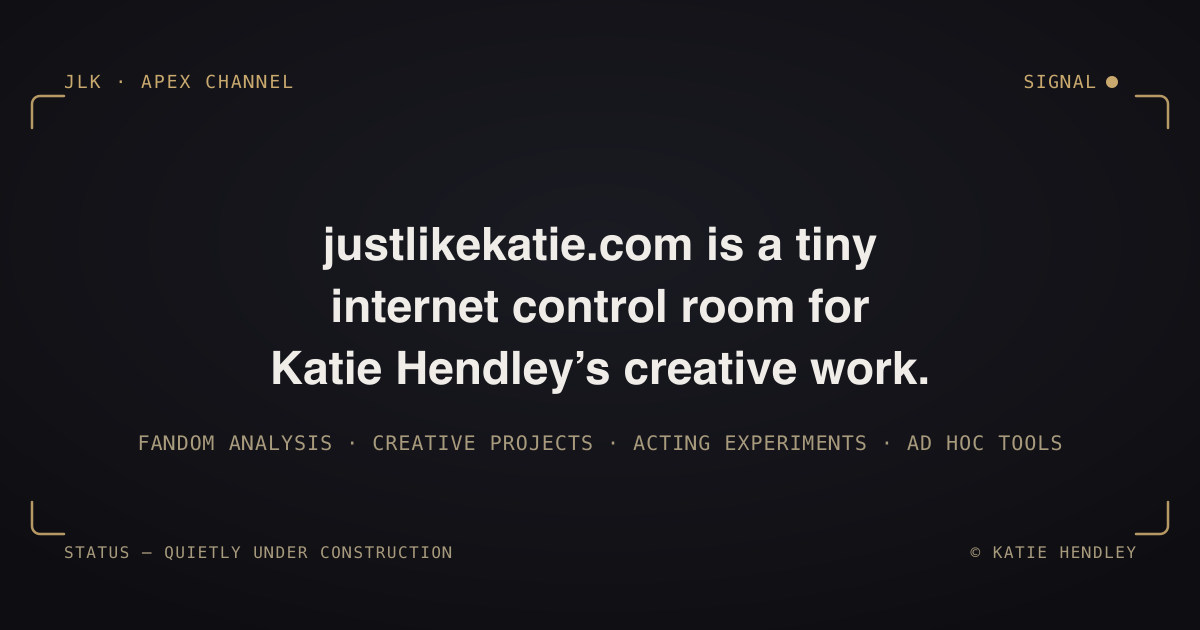
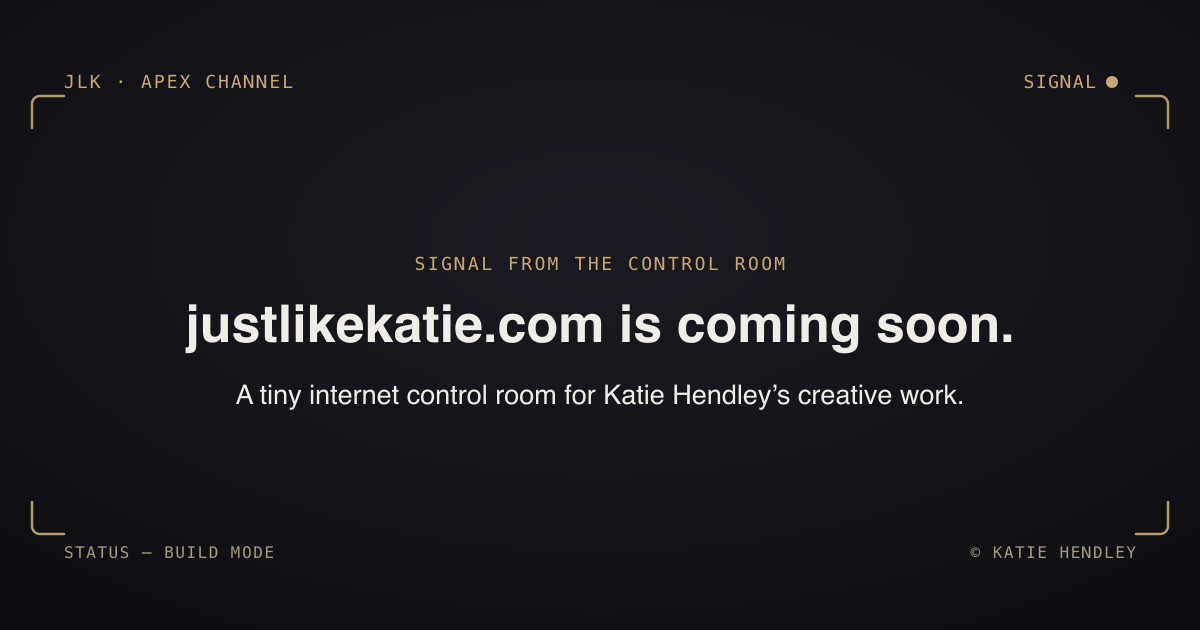
Restructure coming-soon copy to approved content contract
Supersede the original single-sentence layout with the tighter,
Notion-approved hierarchy the user supplied as authoritative:

1. Eyebrow — "Signal from the Control Room"
2. Headline — "justlikekatie.com is coming soon."
3. Lede — the required verbatim control-room sentence, restructured
   without the "justlikekatie.com is a" prefix
4. Body copy — a build-status paragraph explaining the site is
   gathering portfolio work, fandom systems, media experiments, and
   the tools behind them into one public home
5. "More soon."
6. A small, deliberately non-dominant WHOIS-marketer aside

Changes:
- Removed the four-tag 'patch panel' row (redundant with the new
  build-status paragraph; not part of the approved hierarchy).
- Renamed the bottom-left HUD status readout from "Quietly Under
  Construction" to "Build Mode" so it echoes rather than competes
  with the new body copy's own terminology.
- Updated title/meta description/OG/Twitter copy to the new
  "coming soon" framing.
- Updated the baked-in OG image graphic (was carrying old,
  paraphrased copy and the removed tag row) to match.
- Updated PRODUCT.md/DESIGN.md to record the new content contract
  and copy hierarchy as current product truth.

No product-launch framing, private tool names/links, waitlist,
dates, or backend explanation were introduced — same constraints as
the original build. Visual system (palette, HUD-corner grammar,
motion, type) is unchanged.
[…]

diff --git a/site/index.html b/site/index.html
@@ -7,25 +7,28 @@
   inherited from this family's existing palette; Inter for the editorial voice;
   JetBrains Mono strictly for live instrument readouts (channel id, signal state,
   build status) — genuine telemetry typography, not a technical costume.
-  STORY: A visitor reads the room's own signage — the exact control-room
-  sentence — notices a live signal confirming quiet, intentional activity behind
-  it, and leaves understanding this is Katie's personal system: deliberately
-  quiet, not a storefront, not for hire.
+  STORY: A visitor reads the room's own signage — a plain "coming soon," the
+  control-room description, and a one-line status update — notices a live
+  signal confirming quiet, intentional activity behind it, and leaves
+  understanding this is Katie's personal system: deliberately quiet, not a
+  storefront, not for hire, not broken.
   FIRST VIEWPORT: Full-bleed dark panel framed by thin corner brackets at all
   four screen corners (HUD chrome, not a card) holding small mono readouts —
   channel id top-left, live signal top-right, build status bottom-left, mark
-  bottom-right. The verbatim sentence sits large and centered, unlabeled, as the
-  room's own signage. A row of four patch-panel tags beneath it echoes the
-  sentence's own named practices as inert labels, never links.
-  FORM: Brief-pinned direction (editorial/control-room, Just Like Katie family)
-  executed directly per new-work.md's "a pinned direction beats the roll."
+  bottom-right. Inside the panel: a mono eyebrow, the "is coming soon" headline,
+  the verbatim control-room sentence, one status paragraph, a short "More soon,"
+  and a small closing wink about WHOIS marketers — never louder than the copy
+  above it.
+  FORM: Content contract supplied and approved by the user via Notion,
+  authoritative over the original single-sentence layout; visual system
+  (palette/type/HUD grammar) preserved from the prior committed direction.
 -->
 <html lang="en">
 <head>
   <meta charset="utf-8" />
   <meta name="viewport" content="width=device-width, initial-scale=1" />
-  <title>justlikekatie.com — the control room</title>
-  <meta name="description" content="justlikekatie.com is a tiny internet control room for Katie Hendley’s fandom analysis, creative projects, acting experiments, and ‘wait, I built a tool for that’ moments." />
+  <title>justlikekatie.com — coming soon</title>
+  <meta name="description" content="justlikekatie.com is coming soon — a tiny internet control room for Katie Hendley’s fandom analysis, creative projects, acting experiments, and “wait, I built a tool for that” moments." />
   <link rel="canonical" href="https://justlikekatie.com/" />
   <meta name="robots" content="index, follow" />
   <meta name="theme-color" content="#0e0e12" />
@@ -33,15 +36,15 @@
   <meta property="og:type" content="website" />
   <meta property="og:url" content="https://justlikekatie.com/" />
   <meta property="og:site_name" content="justlikekatie.com" />
-  <meta property="og:title" content="justlikekatie.com — the control room" />
-  <meta property="og:description" content="justlikekatie.com is a tiny internet control room for Katie Hendley’s fandom analysis, creative projects, acting experiments, and ‘wait, I built a tool for that’ moments." />
+  <meta property="og:title" content="justlikekatie.com — coming soon" />
+  <meta property="og:description" content="justlikekatie.com is coming soon — a tiny internet control room for Katie Hendley’s fandom analysis, creative projects, acting experiments, and “wait, I built a tool for that” moments." />
   <meta property="og:image" content="https://justlikekatie.com/og-image.png" />
   <meta property="og:image:width" content="1200" />
   <meta property="og:image:height" content="630" />
   <meta property="og:image:alt" content="A dark instrument panel reading the justlikekatie.com control-room description, framed by corner brackets with a live signal readout." />
   <meta name="twitter:card" content="summary_large_image" />
-  <meta name="twitter:title" content="justlikekatie.com — the control room" />
-  <meta name="twitter:description" content="justlikekatie.com is a tiny internet control room for Katie Hendley’s fandom analysis, creative projects, acting experiments, and ‘wait, I built a tool for that’ moments." />
+  <meta name="twitter:title" content="justlikekatie.com — coming soon" />
+  <meta name="twitter:description" content="justlikekatie.com is coming soon — a tiny internet control room for Katie Hendley’s fandom analysis, creative projects, acting experiments, and “wait, I built a tool for that” moments." />
   <meta name="twitter:image" content="https://justlikekatie.com/og-image.png" />
 
   <link rel="icon" href="/favicon.svg" type="image/svg+xml" />
@@ -175,43 +178,62 @@
       padding-block: clamp(3.5rem, 10vh, 5rem);
     }
 
+    .eyebrow {
+      margin: 0 0 clamp(1.1rem, 3vh, 1.5rem);
+      font-family: "JetBrains Mono", ui-monospace, "SFMono-Regular", Menlo, monospace;
+      font-size: 0.6875rem;
+      letter-spacing: 0.16em;
+      text-transform: uppercase;
+      color: var(--gold);
+    }
+
     .thesis {
       margin: 0;
       font-weight: 700;
-      font-size: clamp(1.5rem, 1.05rem + 2.1vw, 2.75rem);
-      line-height: 1.28;
+      font-size: clamp(1.6rem, 1.15rem + 2.1vw, 2.75rem);
+      line-height: 1.2;
       letter-spacing: -0.015em;
       color: var(--fg);
       text-wrap: balance;
     }
 
-    .channels {
-      list-style: none;
-      margin: clamp(2.25rem, 5vh, 3rem) 0 0;
-      padding: 0;
-      display: flex;
-      flex-wrap: wrap;
-      align-items: center;
-      justify-content: center;
-      gap: 0.6rem 0;
+    .lede {
+      margin: clamp(1.25rem, 3vh, 1.75rem) auto 0;
+      max-width: 34ch;
+      font-weight: 500;
+      font-size: clamp(1.05rem, 0.95rem + 0.5vw, 1.3125rem);
+      line-height: 1.5;
+      color: var(--fg);
+      text-wrap: balance;
     }
 
-    .channels li {
+    .body-copy {
+      margin: clamp(1.75rem, 4vh, 2.25rem) auto 0;
+      max-width: 36ch;
+      font-size: clamp(0.9375rem, 0.9rem + 0.2vw, 1.0625rem);
+      line-height: 1.6;
+      color: var(--muted);
+      text-wrap: pretty;
+    }
+
+    .more-soon {
+      margin: clamp(1.75rem, 4vh, 2.25rem) 0 0;
+      font-weight: 600;
+      font-size: 0.9375rem;
+      letter-spacing: 0.02em;
+      color: var(--fg);
+    }
+
+    .whois-aside {
+      margin: clamp(1.5rem, 3.5vh, 2rem) 0 0;
       font-family: "JetBrains Mono", ui-monospace, "SFMono-Regular", Menlo, monospace;
       font-size: 0.6875rem;
-      letter-spacing: 0.1em;
-      text-transform: uppercase;
+      letter-spacing: 0.04em;
       color: var(--muted);
-      padding: 0.45rem 1rem;
-      border-left: 1px solid var(--edge);
+      opacity: 0.75;
     }
 
-    .channels li:first-child { border-left: none; }
-
     @media (max-width: 30rem) {
-      .channels { flex-direction: column; gap: 0.65rem; }
-      .channels li { border-left: none; padding: 0; }
-
       .hud-corner--bl,
       .hud-corner--br {
         max-width: 46%;
@@ -256,22 +278,29 @@
     </div>
 
     <main class="panel">
-      <h1 class="thesis">
-        justlikekatie.com is a tiny internet control room for Katie Hendley’s
-        fandom analysis, creative projects, acting experiments, and
-        ‘wait, I built a tool for that’ moments.
-      </h1>
+      <p class="eyebrow">Signal from the Control Room</p>
 
-      <ul class="channels" role="list">
-        <li>Fandom Analysis</li>
-        <li>Creative Projects</li>
-        <li>Acting Experiments</li>
-        <li>‘Built a Tool for That’</li>
-      </ul>
+      <h1 class="thesis">justlikekatie.com is coming soon.</h1>
+
+      <p class="lede">
+        A tiny internet control room for Katie Hendley’s fandom analysis,
+        creative projects, acting experiments, and “wait, I built a tool for
+        that” moments.
+      </p>
+
+      <p class="body-copy">
+        This site is currently in build mode — gathering portfolio work,
+        fandom systems, media experiments, and the tools behind them into one
+        public home.
+      </p>
+
+      <p class="more-soon">More soon.</p>
+
+      <p class="whois-aside">Built internally. Please do not feed the WHOIS marketers.</p>
     </main>
 
     <div class="hud-corner hud-corner--bl">
-      <span class="mono">Status — Quietly Under Construction</span>
+      <span class="mono">Status — Build Mode</span>
     </div>
 
     <div class="hud-corner hud-corner--br">

diff --git a/site/PRODUCT.md b/site/PRODUCT.md
@@ -17,11 +17,21 @@ Two audiences land on the bare apex domain, `justlikekatie.com`, before any of K
 A quiet, intentional "yes, this is on purpose" signal at the apex domain. It exists so both audiences leave with the same read: the space is deliberately in-progress, personally run, and not abandoned or up for a commissioned rebuild. Success is a visitor (of either kind) forming that impression within seconds, without being sold anything or asked for anything.
 
 ## Positioning
-The one sentence this surface must carry prominently and verbatim, as given by the requester:
+A tighter, Notion-approved content contract (supplied after the initial build and treated as authoritative over the original single-sentence layout) governs the page's exact copy hierarchy. The page has exactly three jobs:
+1. Signal intentionality — under construction *on purpose*, not abandoned, broken, or a "mystery Wix-shaped distress flare."
+2. Explain the vibe using the required control-room sentence, framed as a personal creative system, not a startup landing page.
+3. Protect private architecture — no names/links for the private tools, no product-launch implication, no backend explanation ("goblin wires stay behind the wall").
 
-> "justlikekatie.com is a tiny internet control room for Katie Hendley's fandom analysis, creative projects, acting experiments, and 'wait, I built a tool for that' moments."
+The approved copy hierarchy, rendered top to bottom:
 
-No neighboring generic "coming soon" template can truthfully make this claim — it names a specific, cross-disciplinary practice (fandom analysis + creative work + acting + ad hoc tool-building) rather than a category.
+1. "Signal from the Control Room" (mono eyebrow)
+2. "justlikekatie.com is coming soon." (h1)
+3. The required control-room sentence, restructured as a lede: "A tiny internet control room for Katie Hendley's fandom analysis, creative projects, acting experiments, and 'wait, I built a tool for that' moments."
+4. A build-status paragraph: "This site is currently in build mode — gathering portfolio work, fandom systems, media experiments, and the tools behind them into one public home."
+5. "More soon."
+6. A small, deliberately non-dominant personality aside: "Built internally. Please do not feed the WHOIS marketers."
+
+No neighboring generic "coming soon" template can truthfully make the control-room claim — it names a specific, cross-disciplinary practice (fandom analysis + creative work + acting + ad hoc tool-building) rather than a category.
 
 ## Operating Context
 `justlikekatie.com` is the apex over a live ecosystem of Katie's own working subdomains (e.g. fandom-analysis tooling, a scheduling/planning tool, a personal admin cockpit, a study tool) that already exist and are actively used, but are private/internal and must never be named, linked, or exposed from this public page. The apex itself currently has no site, which is the entire reason WHOIS lookups misread it as unclaimed/neglected.
@@ -30,8 +40,8 @@ This page is deliberately decoupled from this repository's existing deployed app
 
 ## Capabilities and Constraints
 - Fully static, single page. No backend, no forms, no data collection, no newsletter/waitlist infrastructure (none exists and none should be implied).
-- No invented launch dates, countdowns, waitlist counts, testimonials, pricing, or generic SaaS claims of any kind.
-- Must not link or name any of Katie's private tools (fandom analysis tool, planning/scheduling tool, personal admin cockpit, study tool, or any content-publishing/media pipeline).
+- No invented launch dates, countdowns, waitlist counts, testimonials, pricing, generic SaaS claims, dashboard screenshots, analytics badges, admin links, or product-launch framing of any kind.
+- Must not link or name any of Katie's private tools (fandom analysis tool, planning/scheduling tool, personal admin cockpit, study tool, or any content-publishing/media pipeline), and must not explain how the private backend works.
 - No contact or social link is included: a repo-wide search found no existing canonical public contact/social URL to reuse, and the brief permits one only if such a canonical link already exists. *[Confirmed absent by search, not asked live.]*
 - Must render correctly at both desktop and mobile sizes and respect `prefers-reduced-motion`.
 - Deployment: intended to be served as its own independent site bound to the apex domain, separate from this repo's existing deployed app. *[Inferred engineering assumption — the real-world domain-to-site binding for this repo could not be verified from repo contents alone.]*

diff --git a/site/DESIGN.md b/site/DESIGN.md
@@ -55,8 +55,9 @@ Four small mono readouts anchored to each viewport corner, bracket-framed:
 - **Top-left** — `JLK · APEX CHANNEL` (channel identity)
 - **Top-right** — `SIGNAL — ON` with a pulsing gold dot (a live-ness cue,
   not a countdown or launch-date claim)
-- **Bottom-left** — `STATUS — QUIETLY UNDER CONSTRUCTION` (the entire
-  "coming soon" message; stated once, plainly, no urgency language)
+- **Bottom-left** — `STATUS — BUILD MODE` (a one-word-echo of the on-page
+  copy's "build mode" language, not a second, competing phrase for the same
+  state)
 - **Bottom-right** — `© KATIE HENDLEY`
 
 At narrow widths (≤30rem) the bottom-left/right labels are allowed to wrap
@@ -74,17 +75,42 @@ via emulated media query during QA.
 
 ## Content devices
 
-- The required verbatim sentence is the page's sole headline, set as plain
-  unified text (no inline emphasis) so it reads as one engraved statement.
-- A "patch panel" tag row beneath it — `Fandom Analysis · Creative
-  Projects · Acting Experiments · 'Built a Tool for That'` — echoes the
-  sentence's own phrasing as a distinct instrument-panel device, once
-  redundant inline emphasis was removed from the headline itself.
+A Notion-approved content contract (supplied after the initial build, treated
+as authoritative) restructured the panel into a six-block reading order —
+the original verbatim sentence is preserved but reframed as a lede rather
+than a standalone headline:
+
+1. **Eyebrow** — `Signal from the Control Room` (mono, gold) — an editorial
+   kicker, not a section label.
+2. **Headline (`h1`)** — "justlikekatie.com is coming soon." — states
+   intentionality plainly, first, before any explanation.
+3. **Lede** — the required verbatim sentence, restructured as: "A tiny
+   internet control room for Katie Hendley's fandom analysis, creative
+   projects, acting experiments, and 'wait, I built a tool for that'
+   moments." Set in full foreground weight, distinct from the muted
+   body-copy paragraph beneath it.
+4. **Body copy** — a build-status paragraph ("This site is currently in
+   build mode...") in the muted/gold-tinted secondary color, doing the same
+   job the removed "patch panel" tag row used to do, without repeating the
+   lede's own words.
+5. **"More soon."** — a short, bold, low-key close; no date, no countdown.
+6. **WHOIS aside** — "Built internally. Please do not feed the WHOIS
+   marketers." Set smallest, mono, muted, and slightly translucent
+   (`opacity: 0.75`) so it reads as a personality wink at the very bottom
+   of the panel, never competing with the copy above it.
+
+The former "patch panel" tag row (`Fandom Analysis · Creative Projects ·
+Acting Experiments · 'Built a Tool for That'`) was removed: the new
+build-status paragraph already covers the same ground in prose, and the
+approved hierarchy has no tag-row device.
+
 - No fake waitlist counts, launch dates, or newsletter capture — status is
-  communicated once, in plain language, in the bottom-left readout only.
-- No links to internal CREATE/PLAN/CONNECT/MEDIA tooling; no canonical
-  public contact/social link existed in this repo to attach, so none is
-  shown.
+  communicated once, in plain language, in the body-copy paragraph and the
+  bottom-left HUD readout only.
+- No links to internal CREATE/PLAN/CONNECT/MEDIA tooling, no product-launch
+  framing, and no explanation of how the private backend works ("goblin
+  wires stay behind the wall"); no canonical public contact/social link
+  existed in this repo to attach, so none is shown.
 
 ## Known exceptions (disclosed, not silent)
 
